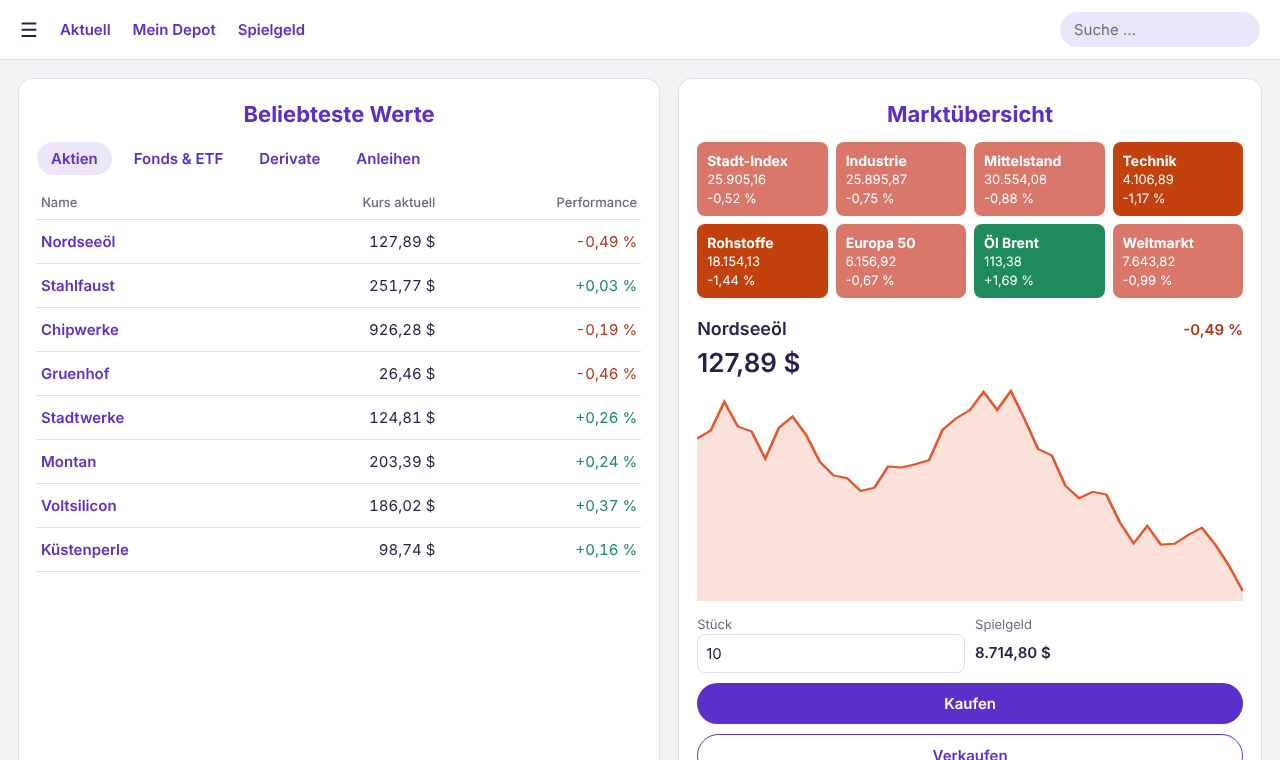
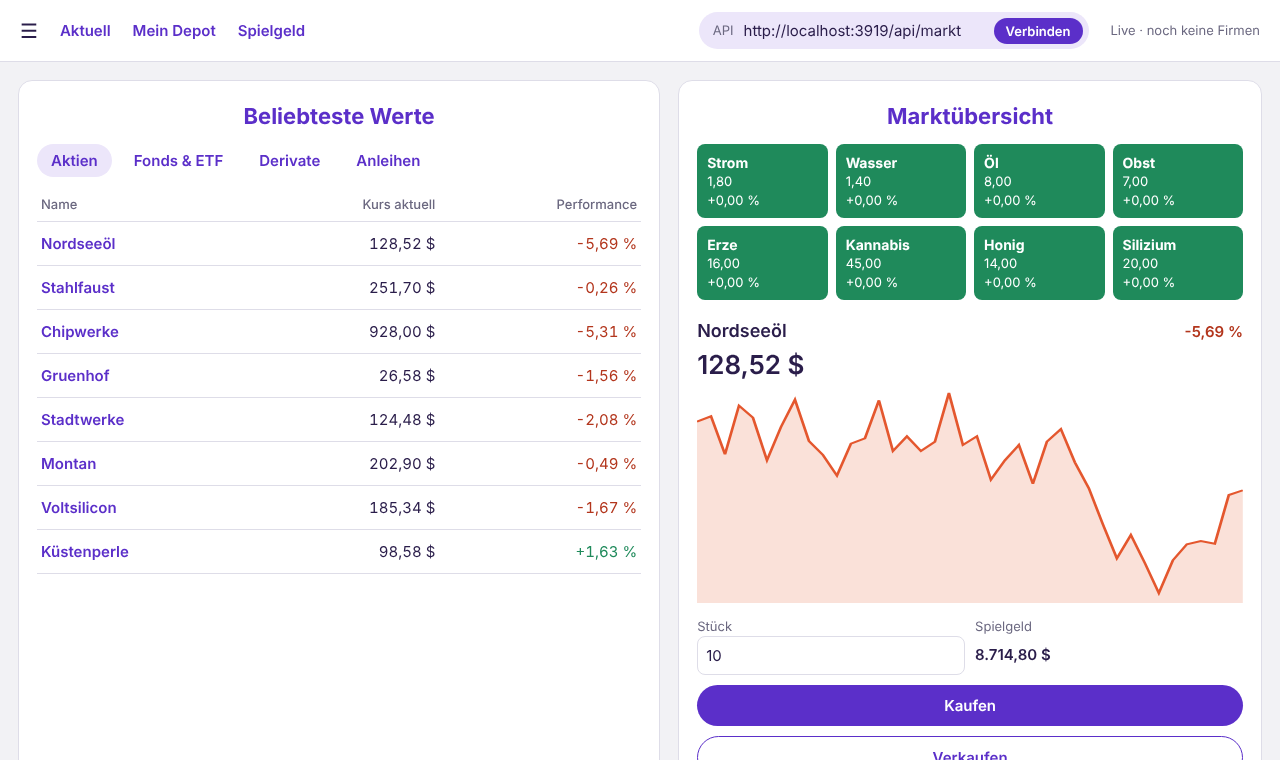
Connect trading UI to the market API
- Add an API address field (also ?api=) that is remembered in the
  browser; poll the game every 5 seconds and fall back to demo prices.
- Allow cross-origin reads on /api/markt so the standalone page can
  fetch it.

Claude-Session: https://claude.ai/code/session_01BPJiiDp9AWnuZEBBUx6hNV

diff --git a/boerse-ui/index.html b/boerse-ui/index.html
@@ -46,7 +46,12 @@ svg{width:100%;height:220px;display:block}
 <nav>
   <span class="menue">&#9776;</span>
   <a href="#">Aktuell</a><a href="#">Mein Depot</a><a href="#">Spielgeld</a>
-  <div class="suche">Suche …</div>
+  <form id="api-form" class="suche" style="display:flex;gap:6px;align-items:center;padding:4px 6px 4px 14px">
+    <label for="api" style="font-size:13px">API</label>
+    <input id="api" style="border:0;background:transparent;padding:4px;min-width:240px" placeholder="http://localhost:3000/api/markt">
+    <button class="knopf" style="padding:5px 12px;font-size:13px">Verbinden</button>
+  </form>
+  <span id="status" style="font-size:13px;color:var(--grau)">Demo-Kurse</span>
 </nav>
 
 <div class="raster">
@@ -161,6 +166,7 @@ function handeln(richtung) {
   zeigeChart();
 }
 function ticke() {
+  if (live) return;
   werte.forEach(w => {
     const schritt = (Math.random() - 0.5) * 0.01;
     const neu = Math.max(0.5, w.kurs * (1 + schritt));
@@ -177,8 +183,54 @@ document.getElementById("werte").addEventListener("click", e => {
 });
 document.getElementById("kaufen").onclick = () => handeln("kauf");
 document.getElementById("verkaufen").onclick = () => handeln("verkauf");
+/* ---------- Live-Daten aus dem Spiel ----------
+ * Die Adresse kommt aus ?api=… oder dem Eingabefeld und bleibt im Browser
+ * gespeichert. Klappt der Abruf nicht, laufen die Demo-Kurse weiter. */
+let apiUrl = new URLSearchParams(location.search).get("api");
+try { apiUrl = apiUrl || localStorage.getItem("boerse-api") || ""; } catch {}
+let live = false;
+const startKurs = {};
+
+async function holeMarkt() {
+  if (!apiUrl) return;
+  const status = document.getElementById("status");
+  try {
+    const d = await (await fetch(apiUrl, { cache: "no-store" })).json();
+    const verlauf = d.verlauf || [];
+    if (d.firmen?.length) {
+      const name = werte[aktiv]?.name;
+      werte = d.firmen.map(f => {
+        startKurs[f.id] ??= verlauf.find(v => v.firmen[f.id] != null)?.firmen[f.id] ?? f.kurs;
+        const v = verlauf.map(p => p.firmen[f.id]).filter(x => x != null);
+        return { name: f.name, kurs: f.kurs, perf: Math.round((f.kurs / startKurs[f.id] - 1) * 10000) / 100,
+                 verlauf: v.length ? v : [f.kurs] };
+      });
+      aktiv = Math.max(0, werte.findIndex(w => w.name === name));
+    }
+    /* Kacheln: Warenpreise gegenüber dem Grundpreis, die acht größten Ausschläge. */
+    INDEX.splice(0, INDEX.length, ...d.waren
+      .map(w => ({ name: w.name, wert: f2(w.preis), perf: Math.round((w.preis / w.grundpreis - 1) * 10000) / 100 }))
+      .sort((a, b) => Math.abs(b.perf) - Math.abs(a.perf)).slice(0, 8));
+    live = true;
+    status.textContent = d.firmen?.length ? `Live · Minute ${d.runde.minute}` : "Live · noch keine Firmen";
+    zeigeWerte(); zeigeKacheln(); zeigeChart();
+  } catch {
+    live = false;
+    status.textContent = "Keine Verbindung, Demo-Kurse";
+  }
+}
+document.getElementById("api").value = apiUrl;
+document.getElementById("api-form").addEventListener("submit", e => {
+  e.preventDefault();
+  apiUrl = document.getElementById("api").value.trim();
+  try { localStorage.setItem("boerse-api", apiUrl); } catch {}
+  holeMarkt();
+});
+
 zeigeWerte(); zeigeKacheln(); zeigeChart();
+holeMarkt();
 setInterval(ticke, 2000);
+setInterval(() => { if (live) holeMarkt(); }, 5000);
 </script>
 </body>
 </html>

diff --git a/server.js b/server.js
@@ -465,6 +465,8 @@ app.get("/api/lobby", (_req, res) => {
  * erreichbar als /r/<CODE>/api/markt, im Einzelbetrieb als /api/markt. */
 const r2 = x => Math.round(x * 100) / 100;
 app.get("/api/markt", (req, res) => {
+  /* Die Börsen-Seite läuft als eigene Datei, also von einer anderen Herkunft. */
+  res.set("Access-Control-Allow-Origin", "*");
   res.json({
     runde: {
       seed: G.seed, modus: MODE, gestartet: !!G.started, beendet: !!G.winner,
